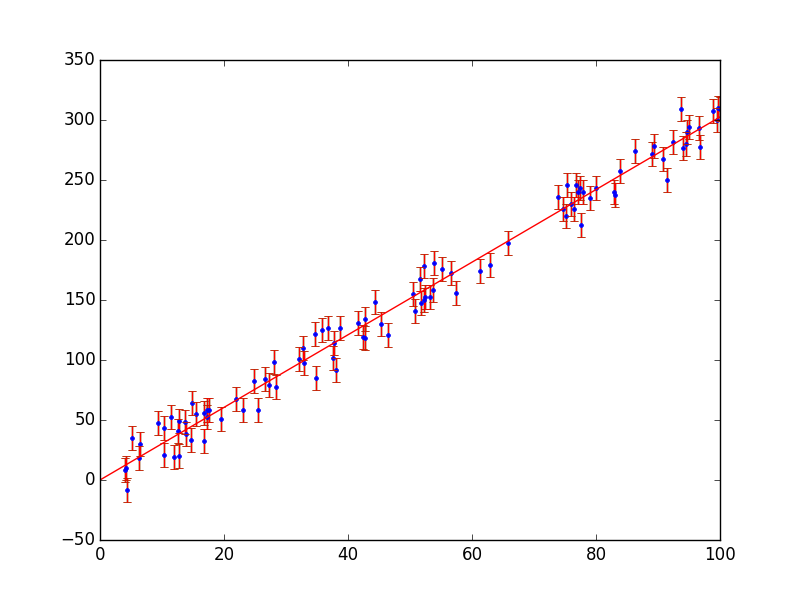
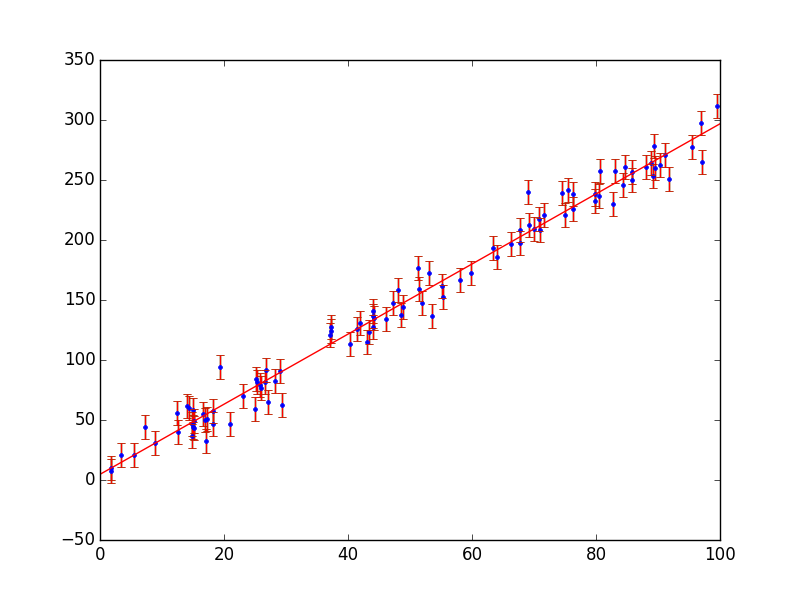
Update examples, add solubility model parameter fit constants

Changed region(s): [[0.125, 0.15, 0.9062, 0.84], [0.25, 0.6, 0.2812, 0.63]]

diff --git a/src/H2S_Solubility_Model.py b/src/H2S_Solubility_Model.py
@@ -1,0 +1,78 @@
+'''
+Created on Jul 27, 2015
+
+@author: aeames
+'''
+import scipy.optimize
+import math.exp
+from CONSTANTS import k_4_coefficients, k_6_coefficients, k_7_coefficients,\
+    H_H2S_coefficients
+# P = total pressure in psig
+# T_F = temperature in farenheit 
+# A_w = amine weight percent
+# These are the known inputs from the data
+# This function converts input into use-able form
+def f(Input_Array,  k_1):
+    #
+    [P, T_F, A_w]   = Input_Array
+    Adjusted_Input  = inputs(P, T_F, A_w)
+    k_4             = math.exp(Get_Poly_Fit(Adjusted_Input[1], k_4_coefficients))
+    k_6             = math.exp(Get_Poly_Fit(Adjusted_Input[1], k_6_coefficients))
+    k_7             = math.exp(Get_Poly_Fit(Adjusted_Input[1], k_7_coefficients))
+    H_H2S           = math.exp(Get_Poly_Fit(Adjusted_Input[1], H_H2S_coefficients))
+    #
+    a               = float(1.0e-12)
+    b               = 1.
+    hydrogen_conc   = scipy.optimize.brenth(Residual, a, b, args=(k_1))
+    A               = ((Adjusted_Input[0]*k_6*k_7)/H_H2S)*((1+(hydrogen_conc/k_7))/(hydrogen_conc**2))
+    beta            = (1/Adjusted_Input[2])*(A + (Adjusted_Input[0]/H_H2S))
+    #
+    return beta
+#
+def Get_Poly_Fit(In_temp, In_coefficients):
+    return  In_coefficients[0]                   + \
+            In_coefficients[1] * (1./In_temp)    + \
+            In_coefficients[2] * (1./In_temp**2) + \
+            In_coefficients[3] * (1./In_temp**3) + \
+            In_coefficients[4] * (1./In_temp**4)
+            
+    
+#
+#
+def inputs(P, T_F, A_w):
+    P_H2S   = ((P + 14.6959488)*.1) * 51.7149326    # partial pressure of H2S as 10% of total pressure in mmHg
+    T       = (T_F - 32)*(5 / 9) + 273.15               # Temperature in Kelvin
+    M       = (A_w * 1000)/(100 * 105.14)              # Molar concentration of amine, right now for DEA
+    return (P_H2S, T, M) 
+#
+#
+#
+#
+# "Parameters:"
+# K4 = float(7.55767e-14)
+# K6 = float(2.22E-7)
+# K7 = float(1.39E-13)
+# HH2S = 14965.71015
+# K1 = float(3.3432e-9)
+# function to find hydrogen ion concentration
+# basically equation 14 (corrected) modified A to be in terms of x
+# x is hydrogen ion concentration
+# H_plus_conc should equal x
+def H_plus_func(x, k_1, k_4, k_6, k_7, H_H2S, P_H2S, M):
+    H_plus_conc = (k_4/x)/(1+(M/(k_1*(1+(x/k_1))))) + (P_H2S*k_6*k_7/H_H2S)*((1+(x/k_7))/(x**2))*(1/(1+(M/(k_1*(1+(x/k_1))))))*(1+(k_7/(1+x)))
+    return H_plus_conc
+#
+#
+def Residual(x, k_1, k_4, k_6, k_7, H_H2S, P_H2S, M):
+    G = H_plus_func(x, k_1, k_4, k_6, k_7, H_H2S, P_H2S, M) - x  #residual equation, G should be 0
+    return G 
+#
+#
+# 
+# print "This is the equilibrium concentration of [H+]: %s" % residual_x
+# A = ((P_H2S*K6*K7)/HH2S)*((1+(residual_x/K7))/(residual_x**2))
+# print "Actual A is equal to %s." % A 
+# beta = (1/M)*(A + (P_H2S/HH2S))
+# print "The total loading is %s." % beta 
+# wt_percent = (beta*M*34.0809*100)/(1000)
+# print "Finally, the weight percent of hydrogen sulfide is %s percent." % wt_percent    

diff --git a/src/CurveFitExamples.py b/src/CurveFitExamples.py
@@ -15,34 +15,47 @@ from scipy.stats.distributions import t
 #
 "Fake dataset with some random noise"
 x = np.random.uniform(0., 100., 100)
-y = 3. * x+2. + np.random.normal(0., 10., 100)
-print plt.plot(x, y, '.')
+z = x**2.0
+#f
+XCOMBINED           = np.zeros((2, 100))
+XCOMBINED[0, :]     = x 
+XCOMBINED[1, :]     = z
+
+y = (1. * z) + (3. * x) + 2. + np.random.normal(0., 10., 100)
+#print plt.plot(x, y, '.')
 #
 #
 #
-def line(x, a, b):
-    return a*x + b 
+def parabola(InArray, a, b, c):
+    return a*InArray[1] + b*InArray[0] + c
 #
 #
-popt, pcov = curve_fit(line, x, y)
+popt, pcov = curve_fit(parabola, XCOMBINED, y)
 print popt 
 print pcov
 #
 #
-"fit the data assuming each point has a vertical error (standard deviation) of +/- 10:"
-e = np.repeat(10., 100)
-print plt.errorbar(x, y, yerr=e, fmt=None)
-popt, pcov = curve_fit(line, x, y, sigma=e)
-print popt
-"Now pcov will contain the true variance and covariance of the parameters, so that the best-fit parameters are:"
-print "a =", popt[0], "+/-", pcov[0,0]**0.5
-print "b =", popt[1], "+/-", pcov[1,1]**0.5
-"No plot the best fit line"
-plt.errorbar(x, y, yerr=e, fmt=None)
-xfine = np.linspace(0., 100., 100) #define values to plot the function for 
-plt.plot(xfine, line(xfine, popt[0], popt[1]), 'r-')
-#plt.show()
-plt.savefig('Pictures/example.png')
+# "fit the data assuming each point has a vertical error (standard deviation) of +/- 10:"
+# e = np.repeat(10., 100)
+# print plt.errorbar(x, y, yerr=e, fmt=None)
+# popt, pcov = curve_fit(parabola, x, y, sigma=e)
+# print popt
+# "Now pcov will contain the true variance and covariance of the parameters, so that the best-fit parameters are:"
+# print "a =", popt[0], "+/-", pcov[0,0]**0.5
+# print "b =", popt[1], "+/-", pcov[1,1]**0.5
+# "No plot the best fit line"
+# #plt.errorbar(x, y, yerr=e, fmt=None)
+xfine   = np.linspace(0., 100., 100) #define values to plot the function for 
+zfine   = xfine**2.0
+yfine   = np.zeros((100))
+#
+for i in range(100):
+    temparray   = [xfine[i], zfine[i]]
+    yfine[i]    = parabola(temparray, popt[0], popt[1], popt[2])
+    #
+plt.plot(xfine, yfine, 'r-')
+plt.show()
+#plt.savefig('Pictures/example.png')
 #
 #
 # "Nonlinear example from http://kitchingroup.cheme.cmu.edu/blog/2013/02/12/Nonlinear-curve-fitting-with-parameter-confidence-intervals/"

diff --git a/src/H2S_Parameter_Fit.py b/src/H2S_Parameter_Fit.py
@@ -1,0 +1,7 @@
+'''
+Created on Jul 27, 2015
+
+@author: aeames
+'''
+from scipy.optimize import curve_fit
+from H2S_Solubility_Model import inputs
